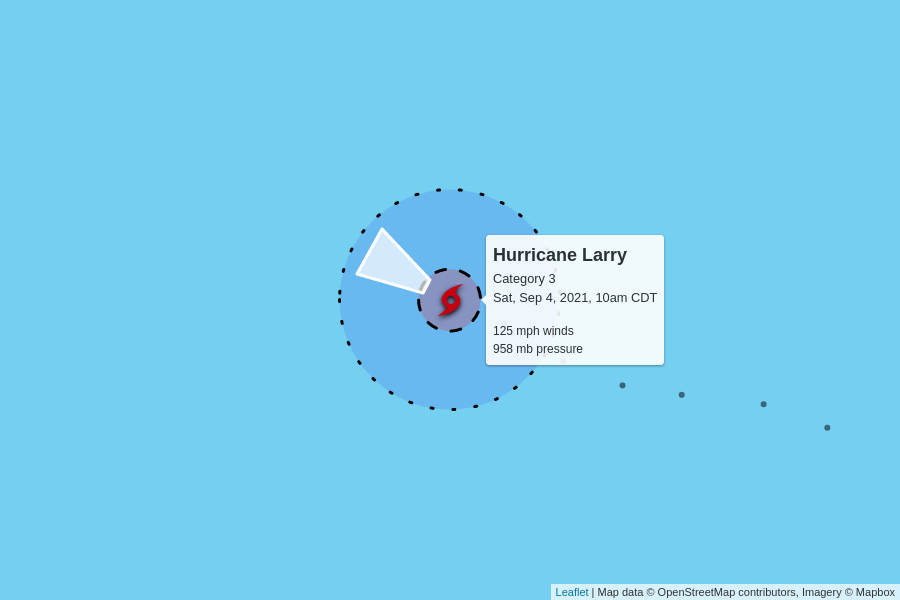
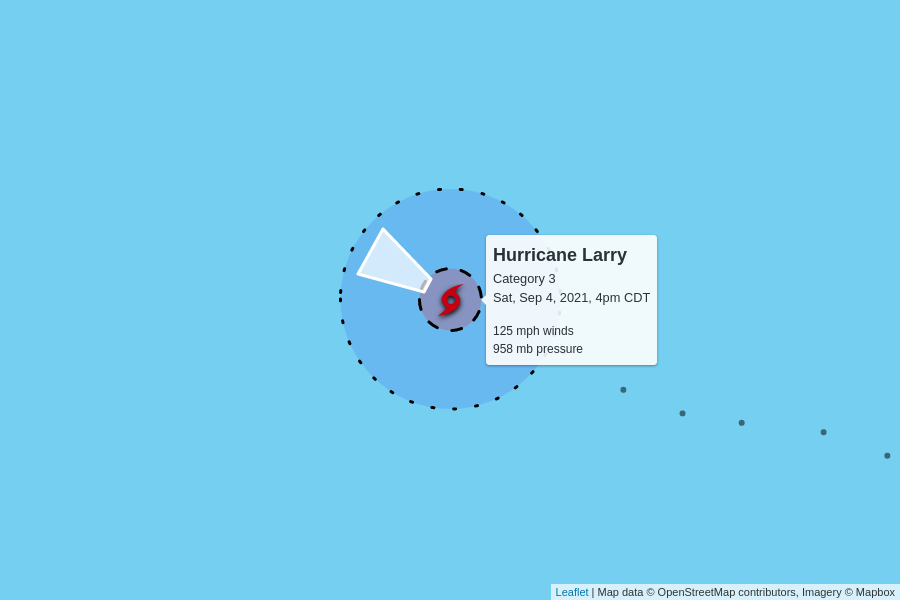
automatic update

diff --git a/docs/index.html b/docs/index.html
@@ -100,7 +100,7 @@
         <td colspan="6" class="storm category-3">
           <h2>
             Hurricane Larry - Category 3
-            <p class="updated">last updated <span data-time>2021-09-04T15:00:00.000Z</span></p>
+            <p class="updated">last updated <span data-time>2021-09-04T21:00:00.000Z</span></p>
           </h2>
         </td>
       </tr>
@@ -118,7 +118,7 @@
         <td>125 mph</td>
         <td>958 mb</td>
         <td>
-          15 mph to the west-northwest
+          14 mph to the west-northwest
           <br/>
           <span style="display: inline-block; font-size: 1.5em; transform: rotate(300deg);">↑</span>
         </td>
